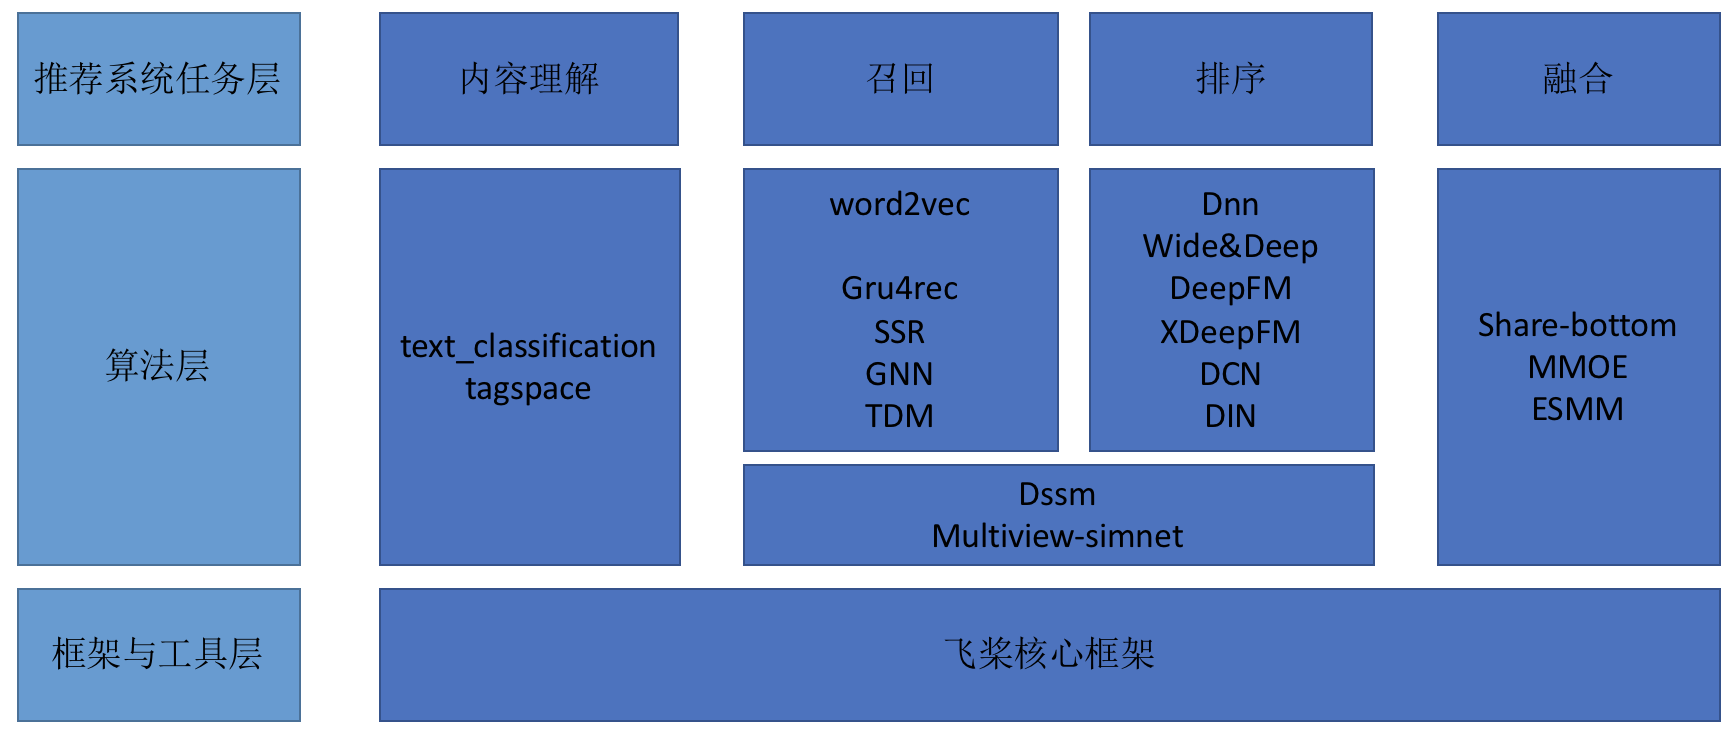
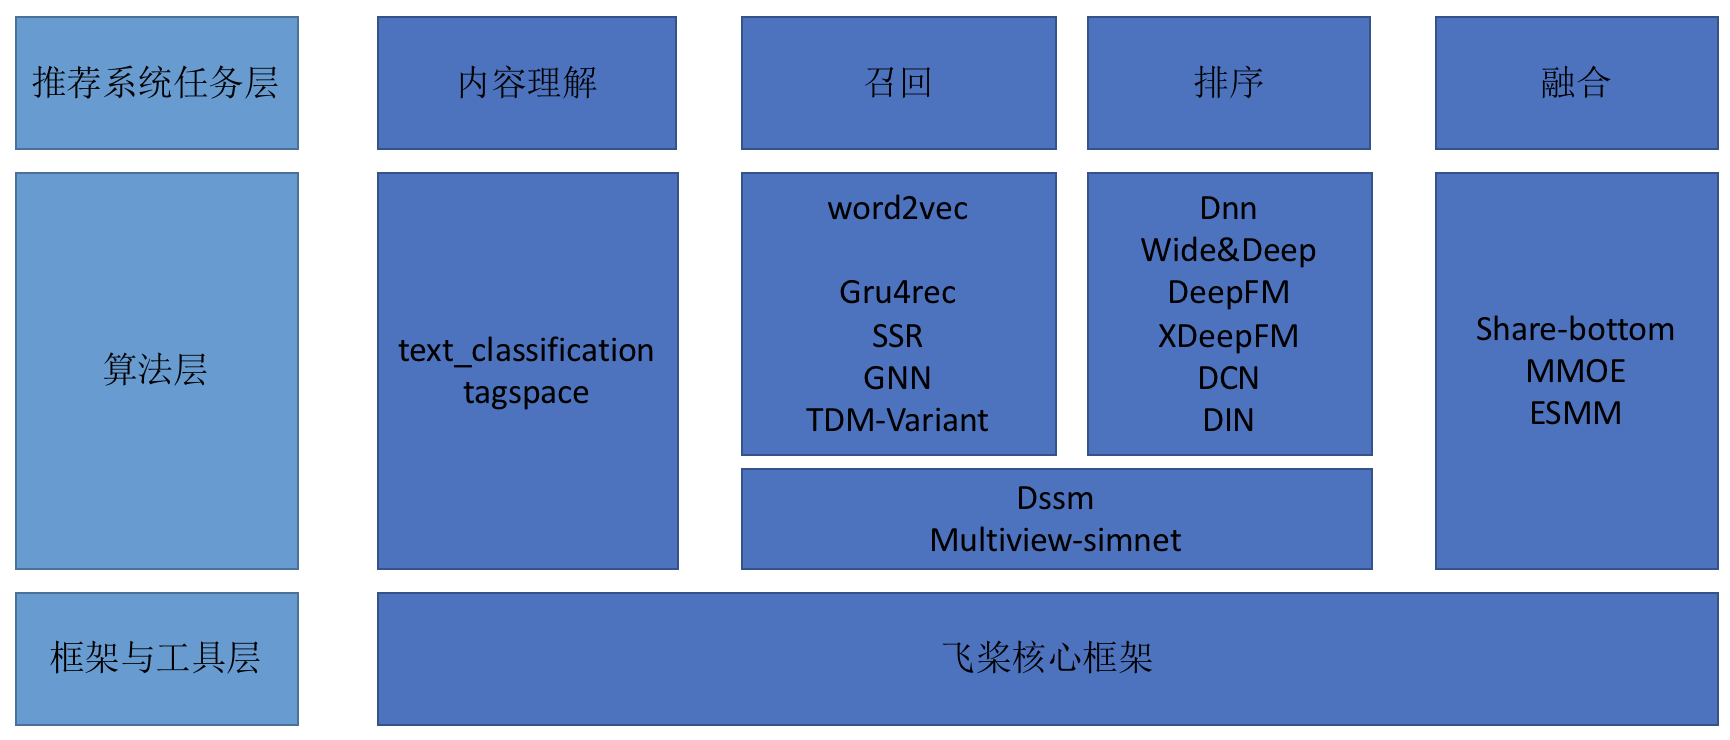
fix Readme

diff --git a/PaddleRec/README.md b/PaddleRec/README.md
@@ -19,18 +19,18 @@ PaddleRec全景图：
 | 内容理解                  | [TagSpace](https://github.com/PaddlePaddle/models/tree/develop/PaddleRec/tagspace) |Tagspace模型学习文本及标签的embedding表示，应用于工业级的标签推荐，具体应用场景有feed新闻标签推荐。|
 | 内容理解                  | [TextClassification](https://github.com/PaddlePaddle/models/tree/develop/PaddleRec/text_classification) |文本分类，具体应用场景有feed新闻标签分类。|
 | 召回                      | [Word2Vec](https://github.com/PaddlePaddle/models/tree/develop/PaddleRec/word2vec) |训练得到词的向量表示、广泛应用于NLP、推荐等任务场景。 |
-| 召回                      | [GraphNeuralNetwork](https://github.com/PaddlePaddle/models/tree/develop/PaddleRec/gnn) |SR-GNN，全称为Session-based Recommendations with Graph Neural Network（GNN）。使用GNN进行会话序列建模。 |
-| 召回                      | [TDM](https://github.com/PaddlePaddle/models/tree/develop/PaddleRec/tdm) |全称为Tree-based Deep Model for Recommender Systems。层次化建模及检索 |
+| 召回                      | [GNN](https://github.com/PaddlePaddle/models/tree/develop/PaddleRec/gnn) |SR-GNN，全称为Session-based Recommendations with Graph Neural Network（GNN）。使用GNN进行会话序列建模。 |
+| 召回                      | [TDM-Variant](https://github.com/PaddlePaddle/models/tree/develop/PaddleRec/tdm) |全称为Tree-based Deep Model for Recommender Systems。层次化建模及检索 |
 | 召回                      | [GRU4Rec](https://github.com/PaddlePaddle/models/tree/develop/PaddleRec/gru4rec) |Session-based 推荐, 首次将RNN（GRU）运用于session-based推荐，核心思想是在一个session中，用户点击一系列item的行为看做一个序列，用来训练RNN模型 |
-| 召回                      | [SequenceSemanticRetrieval](https://github.com/PaddlePaddle/models/tree/develop/PaddleRec/ssr) |解决了 GRU4Rec 模型无法预测训练数据集中不存在的项目，比如新闻推荐的问题。它由两个部分组成：一个是匹配模型部分，另一个是检索部分  |
+| 召回                      | [SSR](https://github.com/PaddlePaddle/models/tree/develop/PaddleRec/ssr) |全称为SequenceSemanticRetrieval, 解决了 GRU4Rec 模型无法预测训练数据集中不存在的项目，比如新闻推荐的问题。它由两个部分组成：一个是匹配模型部分，另一个是检索部分  |
 | 匹配                      | [Multiview-Simnet](https://github.com/PaddlePaddle/models/tree/develop/PaddleRec/multiview_simnet) |多视角Simnet模型是可以融合用户以及推荐项目的多个视角的特征并进行个性化匹配学习的一体化模型。这类模型在很多工业化的场景中都会被使用到，比如百度的Feed产品中 |
 | 匹配                      | [DSSM](https://github.com/PaddlePaddle/models/tree/develop/PaddleRec/dssm) |全称：Deep Structured Semantic Model深度语义匹配模型 |
-| 排序                      | [DNN](https://github.com/PaddlePaddle/models/tree/develop/PaddleRec/ctr/cnn) |经典的CTR预估算法。|
+| 排序                      | [DNN](https://github.com/PaddlePaddle/models/tree/develop/PaddleRec/ctr/dnn) |经典的CTR预估算法。|
 | 排序                      | [Wide_Deep](https://github.com/PaddlePaddle/models/tree/develop/PaddleRec/ctr/wide_deep) |经典的CTR预估算法。|
 | 排序                      | [DeepFM](https://github.com/PaddlePaddle/models/tree/develop/PaddleRec/ctr/deepfm) |DeepFM，全称Factorization-Machine based Neural Network。经典的CTR预估算法，网络由DNN和FM两部分组成。 |
 | 排序                      | [XDeepFM](https://github.com/PaddlePaddle/models/tree/develop/PaddleRec/ctr/xdeepfm) |xDeepFM，全称extreme Factorization Machine。对DeepFM和DCN的改进，提出CIN（Compressed Interaction Network），使用vector-wise等级的显示特征交叉。 |
 | 排序                      | [DCN](https://github.com/PaddlePaddle/models/tree/develop/PaddleRec/ctr/dcn) |全称Deep & Cross Network。提出一种新的交叉网络（cross network），在每个层上明确地应用特征交叉。  |
-| 排序                      | [DeepInterestNetwork](https://github.com/PaddlePaddle/models/tree/develop/PaddleRec/ctr/din) |DIN，全称为Deep Interest Network。特点为对历史序列建模的过程中结合了预估目标的信息。  |
+| 排序                      | [DIN](https://github.com/PaddlePaddle/models/tree/develop/PaddleRec/ctr/din) |DIN，全称为Deep Interest Network。特点为对历史序列建模的过程中结合了预估目标的信息。  |
 | 融合- 多任务               | [ESMM](https://github.com/PaddlePaddle/models/tree/develop/PaddleRec/multi_task/esmm) |ESMM，全称为Entire Space Multi-task Model。提出一种新的CVR预估模型。  |
 | 融合- 多任务               | [Share_bottom](https://github.com/PaddlePaddle/models/tree/develop/PaddleRec/multi_task/share_bottom) |多任务学习的基本框架，其特点是对于不同的任务，底层的参数和网络结构是共享的。  |
 | 融合- 多任务               | [MMoE](https://github.com/PaddlePaddle/models/tree/develop/PaddleRec/multi_task/mmoe) |MMOE, 全称为Multi-grate Mixture-of-Experts，可以刻画任务相关性。  |
